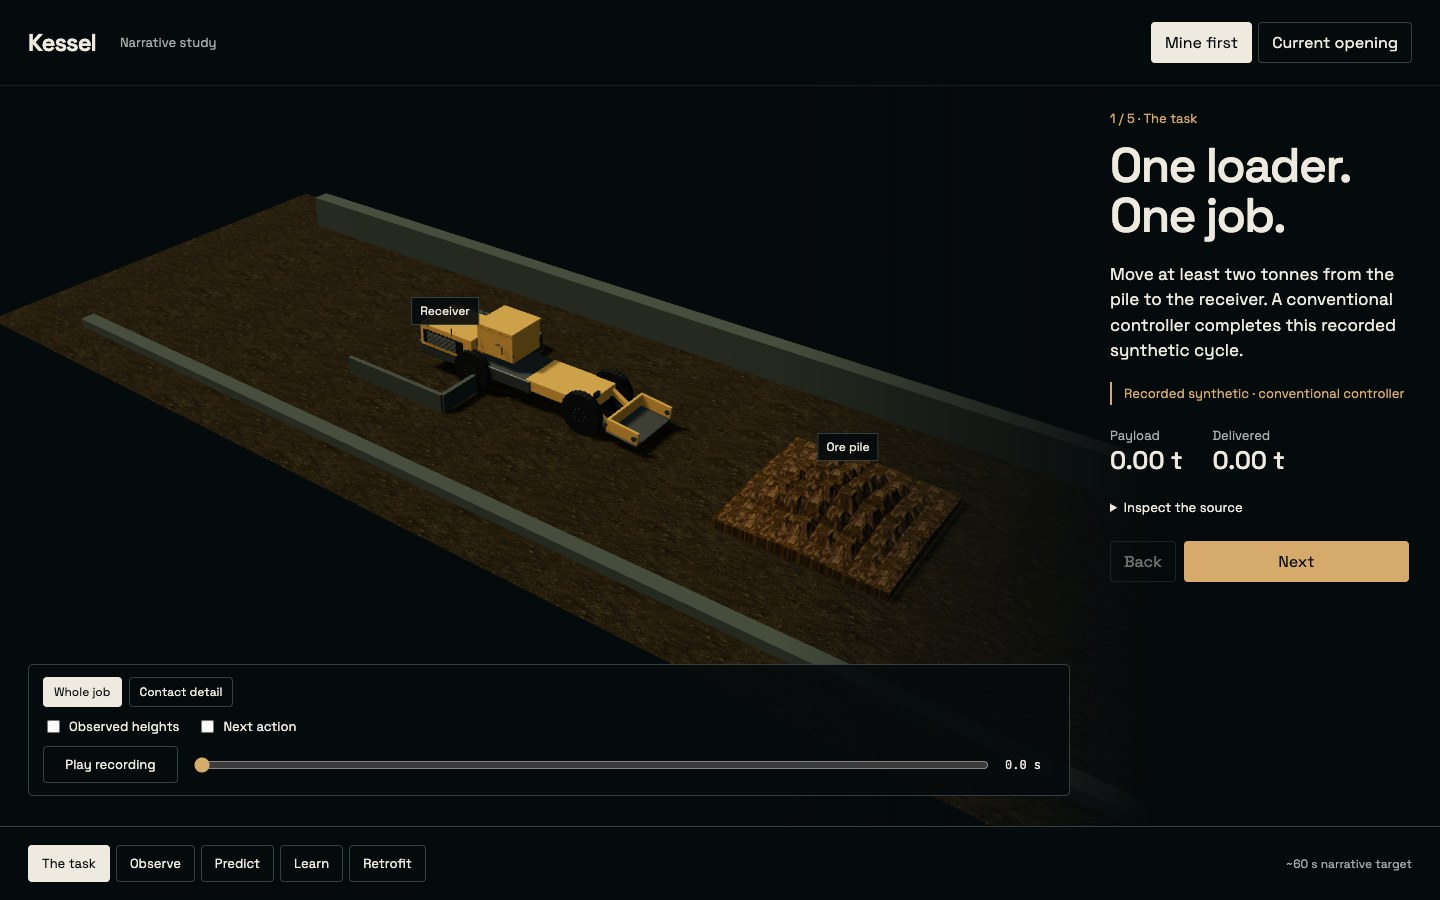
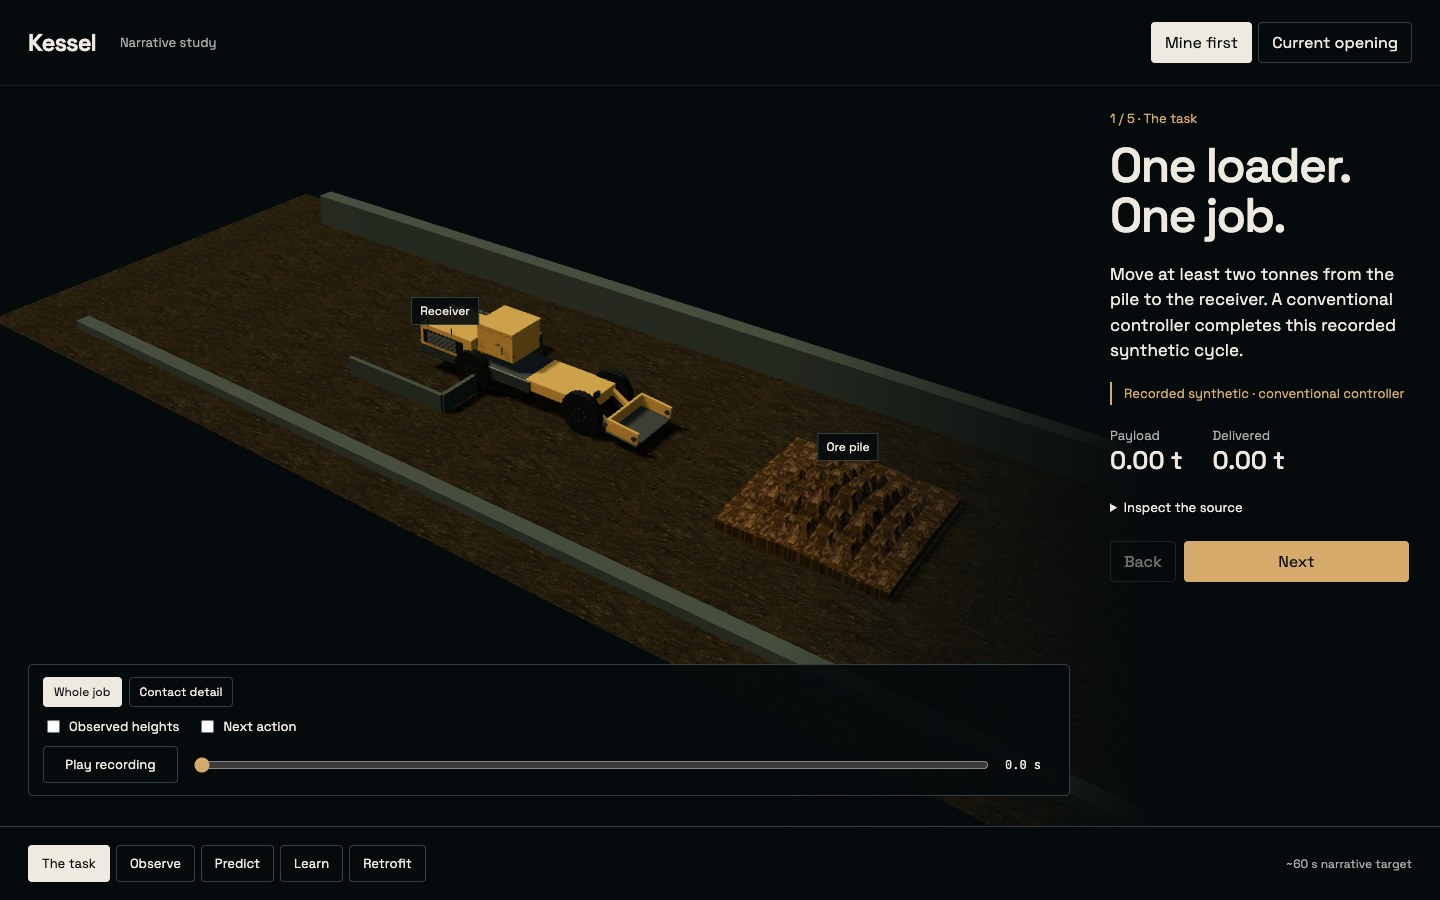
fix(research): bind narrative geometry and view source identities
refs #407, #416, #434

diff --git a/docs/phase-11/narrative-study/study.js b/docs/phase-11/narrative-study/study.js
@@ -20,6 +20,7 @@ const beats = {
 const core = ['task','observe','predict','learn','retrofit'];
 let route='mine', index=0, lens='job', elapsed=0, playing=false, horizon=4, loaded=false;
 let bundle, learnedBundle, episode, loader, envelope, source, receiver, observationDots, fit, anchor;
+const walls=[];
 const scene=new THREE.Scene();scene.background=new THREE.Color('#050a0c');
 const camera=new THREE.PerspectiveCamera(42,innerWidth/innerHeight,.1,200);
 const renderer=new THREE.WebGLRenderer({canvas:$('world'),antialias:true,powerPreference:'high-performance'});
@@ -81,6 +82,7 @@ function draw(){
   if(!loaded)return;
   const sampled=sampleEpisode(episode,elapsed),r=sampled.frame,s=r.state;
   loader.apply(sampled.pose,sampled.wheelAngles,s[7]);
+  walls[0].position.z=-s[86]-.25;walls[1].position.z=s[86]+.2;
   source(s.slice(15,79),s[79],s[80]);
   const weights=Array.from({length:64},(_,k)=>Math.exp(-((k%8-3.5)**2+(Math.floor(k/8)-3.5)**2)/5)),sum=weights.reduce((a,b)=>a+b,0);
   receiver(weights.map(w=>w*s[8]/(s[81]*(s[90]*s[91]/16)*sum)),s[88]-s[90],s[89]-s[91],s[90]/4,s[91]/4);
@@ -122,7 +124,7 @@ async function start(){
     const [ore,floor,model,authored]=await Promise.all([texture(config.assets.ore),texture(config.assets.floor,8),fetch(config.assets.loader).then(r=>r.json()),authoredAsset(config.visuals.authored.reference_loader)]);
     loader=createReferenceLoader(model,ore,authored);root.add(loader.root);source=surface(ore,0xb1a08a);receiver=surface(ore,0xa99c86);
     const ground=new THREE.Mesh(new THREE.PlaneGeometry(34,12),new THREE.MeshStandardMaterial({map:floor,color:0x67736d,roughness:1}));ground.rotation.x=-Math.PI/2;ground.position.set(3.5,-.012,0);ground.receiveShadow=true;root.add(ground);
-    const concrete=new THREE.MeshStandardMaterial({color:0x47514c,roughness:1});box([29,1,.5],[3.5,.5,-4.5],concrete,root);box([29,.25,.4],[3.5,.125,4.5],concrete,root);
+    const concrete=new THREE.MeshStandardMaterial({color:0x47514c,roughness:1});walls.push(box([29,1,.5],[3.5,.5,0],concrete,root),box([29,.25,.4],[3.5,.125,0],concrete,root));
     observationDots=new THREE.InstancedMesh(new THREE.SphereGeometry(.09,8,6),new THREE.MeshBasicMaterial({color:0x9cd6bc,depthTest:false}),25);observationDots.renderOrder=2;observationDots.frustumCulled=false;root.add(observationDots);
     const s=bundle.episodes[0].records[0].state,steel=new THREE.MeshStandardMaterial({color:0x596560,roughness:.7,metalness:.5});
     for(const side of [-1,1])box([s[90]*2,.5,.12],[s[88],.25,-s[89]+side*s[91]],steel,root);
@@ -141,6 +143,6 @@ addEventListener('resize',refit);new ResizeObserver(()=>{if(loaded)refit();}).ob
 let last=performance.now();
 function frame(now){const raw=(now-last)/1000,dt=Math.min(.1,raw);last=now;frames.push(raw);if(frames.length>180)frames.shift();if(playing&&loaded){elapsed=Math.min(episode.records.at(-1).t_s,elapsed+dt);if(elapsed===episode.records.at(-1).t_s){playing=false;$('play').textContent='Play recording';}draw();}requestAnimationFrame(frame);}
 requestAnimationFrame(frame);start();
-window.narrativeStudy={step:id=>selectStep(schedule().indexOf(id)),diagnostics:()=>({loaded,route,step:current(),lens,elapsed,playing,fit,source:current()==='learn'?learnedBundle?.run_id:bundle?.run_id,episode:episode?.name,frameIndex:episode?sampleEpisode(episode,elapsed).index:null,sourceMode:'recorded_synthetic',authoredOutcome:false,pose:episode?sampleEpisode(episode,elapsed).pose:null,meanFps:frames.length/frames.reduce((a,b)=>a+b,0),gpu:renderer.getContext().getParameter(renderer.getContext().getExtension('WEBGL_debug_renderer_info')?.UNMASKED_RENDERER_WEBGL||renderer.getContext().RENDERER)}),auditFrames(){
+window.narrativeStudy={step:id=>selectStep(schedule().indexOf(id)),diagnostics:()=>({loaded,route,step:current(),lens,elapsed,playing,fit,source:current()==='learn'?learnedBundle?.run_id:bundle?.run_id,episode:episode?.name,frameIndex:episode?sampleEpisode(episode,elapsed).index:null,geometrySourceMode:'recorded_synthetic',viewSourceMode:beats[current()].image?'authored_context':current()==='retrofit'?'proposed_architecture':'recorded_synthetic',authoredOutcome:false,pose:episode?sampleEpisode(episode,elapsed).pose:null,meanFps:frames.length/frames.reduce((a,b)=>a+b,0),gpu:renderer.getContext().getParameter(renderer.getContext().getExtension('WEBGL_debug_renderer_info')?.UNMASKED_RENDERER_WEBGL||renderer.getContext().RENDERER)}),auditFrames(){
   const projections=[];for(const time of poseTimes(episode)){const p=sampleEpisode(episode,time);loader.apply(p.pose,p.wheelAngles,p.frame.state[7]);const b=visibleBounds(loader.root),points=boxCorners(b).map(screen);projections.push({time,left:Math.min(...points.map(p=>p.x)),right:Math.max(...points.map(p=>p.x)),top:Math.min(...points.map(p=>p.y)),bottom:Math.max(...points.map(p=>p.y))});}draw();return projections;
 }};

diff --git a/docs/research/2026-11-13-walkthrough-narrative.md b/docs/research/2026-11-13-walkthrough-narrative.md
@@ -140,6 +140,11 @@ context and preserve the recording time/pose when switching lenses. An automatic
 follow camera is not recommended here because it changes orientation and hides
 the source-to-receiver relationship.
 
+Wall positions follow the current record's corridor half-width; source changes
+must not leave the learner colliding with an invisible wall at an old width.
+These selected records do not exercise explicit obstacle-box scenes. Add those
+camera fixtures before qualifying a future obstacle scenario catalogue.
+
 Show the observed heights in their recorded bucket-relative frame. Invalid
 samples remain absent. These points represent pile heights; they do not prove
 wall, person or obstacle detection. Put drive/steer/boom/bucket values in a
